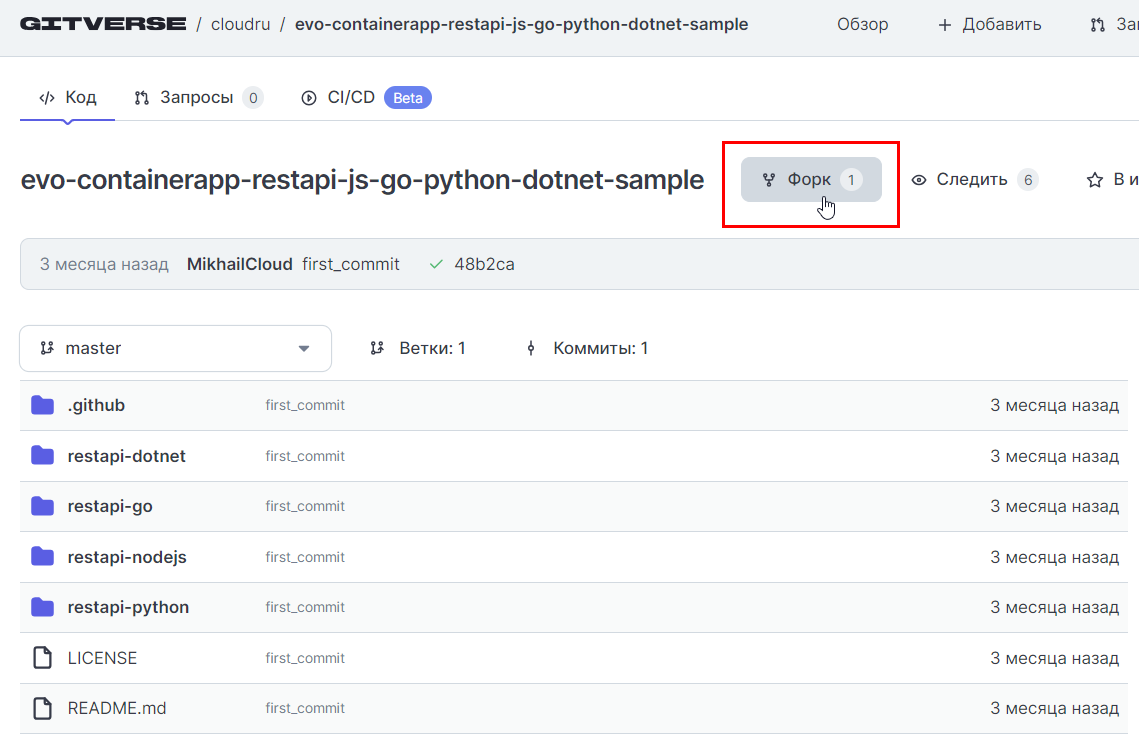
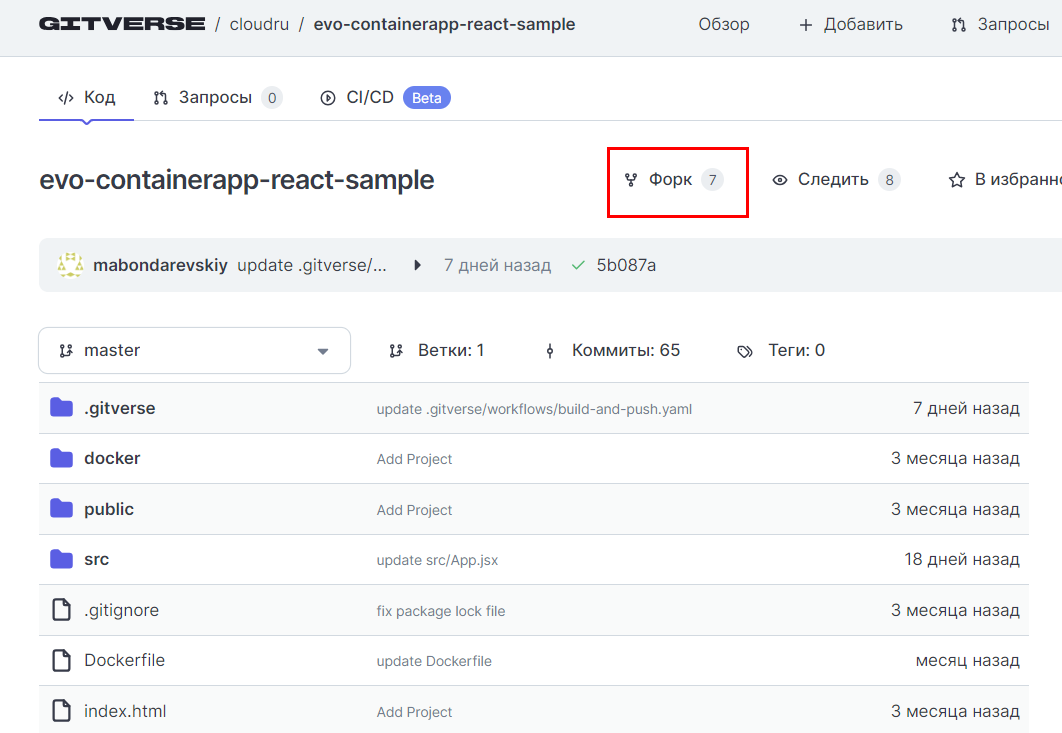
fix

diff --git a/docs/lab4.md b/docs/lab4.md
@@ -14,7 +14,7 @@
 
 Создайте учетную запись в [GitVerse](https://gitverse.ru/){target=_blank}, если у вас ее еще нет. 
 
-Перейдите в [репозиторий Cloud.ru с примером кода REST API](https://gitverse.ru/cloudru/evo-containerapp-restapi-js-go-python-dotnet-sample){target=_blank} и нажмите **Форк**.
+Перейдите в [репозиторий Cloud.ru с примером кода приложения на React](https://gitverse.ru/cloudru/evo-containerapp-react-sample){target=_blank} и нажмите **Форк**.
 
 ![fork](images/lab4/fork.png)
 
@@ -37,7 +37,7 @@
 
 В репозитории перейдите в директорию **.github → workflows** и откройте YAML-файл. 
 
-Откройте режим редактирования и в значение переменной EVDAR_URI укажите URI реестра в Artifact Registry.
+Откройте режим редактирования и в значение переменной `EVOAR_URI` укажите URI реестра в Artifact Registry.
 Нажмите **Сохранить**. 
 
 ![edit-yaml](images/lab4/edit-yaml.png)
@@ -50,4 +50,4 @@
 
 ![jobs-successed](images/lab4/jobs-successed.png)
 
-👍 Поздравляем, вы только что создавать процесс автоматической сборки и публикации Docker-образа! Теперь при каждом загрузке образа в репозиторий GitVerse обновленный образ будет автоматически отправляться в реестр Artifact Registry.
+👍 Поздравляем, вы только что создавать процесс автоматической сборки и публикации Docker-образа! Теперь при каждом изменении кода в  GitVerse обновленный образ будет автоматически отправляться в реестр Artifact Registry.
